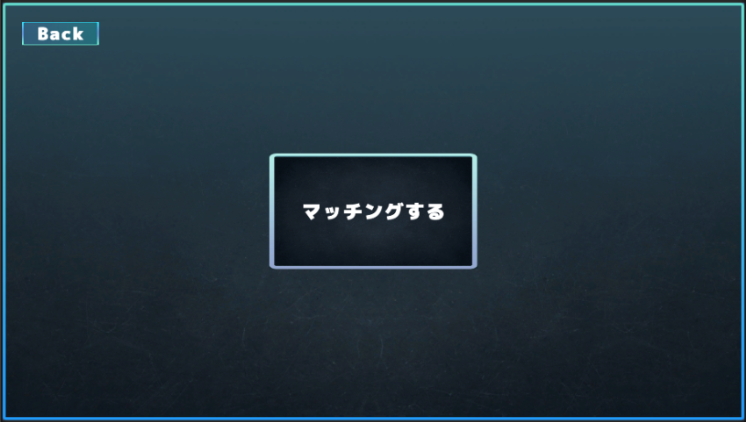
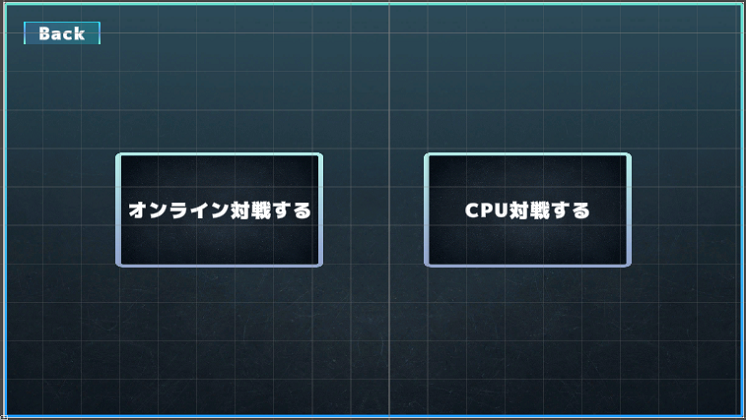
加筆修正

Changed region(s): [[0.0, 0.0, 1.0, 1.0], [0.1542, 0.3405, 0.8633, 0.65], [0.4933, 0.0619, 0.5241, 0.0929]]

diff --git a/HAND_TACTICS.md b/HAND_TACTICS.md
@@ -16,6 +16,7 @@
     * 2.3.2 バトル時の属性相性
   * 2.4. デッキ構築  
   * 2.5. オンライン機能  
+  * 2.6. CPU対戦
 *   
   **3\. 画面仕様詳細・オブジェクト構造**  
   * 3.1. 画面遷移図  
@@ -25,7 +26,7 @@
     * 3.2.3 デッキ一覧(Scene: DeckList)
     * 3.2.4 デッキ構築 (Scene: Deck)
     * 3.2.5 対戦デッキ選択 (Scene: DeckSelect)
-    * 3.2.6 マッチング待機 (Scene: Matching)
+    * 3.2.6 マッチ選択 (Scene: Matching)
     * 3.2.7 バトル (Scene: Battle)
 *   
   **4\. アセット・データリスト**  
@@ -133,26 +134,25 @@
   * デッキ一覧 **(DeckList)**
   * デッキ構築 **(Deck)**
   * 対戦デッキ選択 **(DeckSelect)**
-  * マッチング待機 **(Matching)**
+  * マッチ選択 **(Matching)**
   * バトル **(Battle)**
 
 ### **3.1. 画面遷移図**
 ```mermaid
 graph TD  
-    Start[タイトル] --> Home[ホーム];  
+    Start([タイトル]) -->|TAP SCREEN| Home[ホーム];  
       
-    Home -->|DeckButton| DeckList[デッキ一覧];  
-    DeckList -->|DeckListButton| Deck[デッキ構築];  
+    Home -->|デッキ| DeckList[デッキ一覧];  
+    DeckList -->|デッキ編集| Deck[デッキ構築];  
     Deck -->|Save  Back| DeckList;  
     DeckList -->|Back| Home;  
       
-    Home -->|BattleButton| DeckSelect[対戦対戦デッキ選択];  
-    DeckSelect -->|Start| Matching[マッチング待機];  
-    Matching -->|Matched| Battle[バトル];  
-      
-    Battle --> GameEnd[リザルト];  
-    GameEnd -->|Retry| Battle;  
-    GameEnd -->|Home| Home;
+    Home -->|バトル| DeckSelect[対戦対戦デッキ選択];  
+    DeckSelect --> Matching[マッチ選択];  
+    Matching -->|オンライン対戦| Battle{{バトル}};
+    Matching -->|CPU対戦| Battle{{バトル}};  
+    Battle --retry--> Battle  
+    Battle --> |Home| Home;
 ```
 ### **3.2. 各画面の詳細レイアウト**
 
@@ -171,8 +171,8 @@ graph TD
 
 * **背景:** ダークブルーの背景 (bg_menu) に、カードが上から降り注ぐ演出 (MenuCardSpawner)。  
 * **UI構成:** 画面下部に大きなボタンを配置。  
-  * [バトル] ボタン : クリックでDeckSelectへシーン遷移。
-  * [デッキ編集] ボタン : クリックでDeckListへシーン遷移。
+  * **[バトル] ボタン** : クリックでDeckSelectへシーン遷移。
+  * **[デッキ編集] ボタン** : クリックでDeckListへシーン遷移。
 * **詳細なオブジェクト構造・パラメータ:**  [SceneStructure_Home_Detailed.txt](Structure_text/SceneStructure_Home_Detailed.txt) を参照。
   
 ![alt text](DCG_game_images/home.png)
@@ -181,10 +181,10 @@ graph TD
 #### **3.2.3. デッキ一覧(Scene: DeckList)**
 
 * **レイアウト:** 中央に縦並びのボタンリスト。  
-  * [Defaultを編集]  ボタン : Defaultの情報をもってDeckへシーン遷移。
-  * [Deck1を編集]  ボタン : Deck1の情報をもってDeckへシーン遷移。
-  * [Deck2を編集]  ボタン : Deck2の情報をもってDeckへシーン遷移。
-* **ヘッダー:** 左上に「Back」ボタン : Homeへシーン遷移    
+  * **[Defaultを編集] ボタン** : Defaultの情報をもってDeckへシーン遷移。
+  * **[Deck1を編集]  ボタン** : Deck1の情報をもってDeckへシーン遷移。
+  * **[Deck2を編集]  ボタン** : Deck2の情報をもってDeckへシーン遷移。
+* **ヘッダー:** 左上に **[Back]ボタン** : Homeへシーン遷移    
 * **詳細なオブジェクト構造・パラメータ:**  [SceneStructure_DeckList_Detailed.txt](Structure_text/SceneStructure_DeckList_Detailed.txt), 
   
 ![alt text](DCG_game_images/DeckList.png)
@@ -192,11 +192,11 @@ graph TD
 #### **3.2.4. デッキ構築 (Scene: Deck)**
 
 * **レイアウト:**  
-  * **上段 (Deck):** 編集中のデッキ内容。2列×8枚＝16枚が表示される（左右の矢印でページ切り替え）。  
-  * **下段 (Stock):** 所持カード一覧。1列×6枚が表示される（左右矢印でスクロール）。  
+  * **上段 (Deck):** 編集中のデッキ内容。2列×8枚＝16枚が表示される（**[左右の矢印] ボタン**でページ切り替え）。  
+  * **下段 (Stock):** 所持カード一覧。1列×6枚が表示される（**[左右矢印]ボタン**でスクロール）。  
   * **ヘッダー:** 
-    * 「Reset」ボタン : デッキをクリア。
-    * 「Save/Back」ボタン :　保存してDeckListにシーン遷移。  
+    * **[Reset] ボタン** : デッキをクリア。
+    * **[Save/Back] ボタン** :　保存してDeckListにシーン遷移。  
 * **操作:** 下段から上段へ（またはその逆へ）カードをドラッグ＆ドロップして入れ替え。  
 * **詳細なオブジェクト構造・パラメータ:**  [SceneStructure_Deck_Detailed.txt](Structure_text/SceneStructure_Deck_Detailed.txt) を参照。
 
@@ -206,21 +206,22 @@ graph TD
 #### **3.2.5. 対戦デッキ選択 (Scene: DeckSelect)**
 
 * **レイアウト:** 中央に縦並びのボタンリスト。  
-  * [Defaultでバトル]  ボタン : Defaultの情報をもってBattleへシーン遷移。
-  * [Deck1でバトル]  ボタン : Deck1の情報をもってBattleへシーン遷移。
-  * [Deck2でバトル]  ボタン : Deck2の情報をもってBattleへシーン遷移。
-* **ヘッダー:** 左上に「Back」ボタン : Homeへシーン遷移。  
+  * **[Defaultでバトル] ボタン** : Defaultの情報をもってBattleへシーン遷移。
+  * **[Deck1でバトル] ボタン** : Deck1の情報をもってBattleへシーン遷移。
+  * **[Deck2でバトル] ボタン** : Deck2の情報をもってBattleへシーン遷移。
+* **ヘッダー:** 左上に **[Back]** ボタン : Homeへシーン遷移。  
 * **エラー表示:** デッキ枚数が32枚でない場合、ボタン上に警告メッセージを表示。  
 * **詳細なオブジェクト構造・パラメータ:** [SceneStructure_DeckSelect_Detailed.txt](Structure_text/SceneStructure_DeckSelect_Detailed.txt) を参照。
 
 ![alt text](DCG_game_images/DeckSelect.png)
 ![alt text](DCG_game_images/DeckSelect2.png)
 
-#### **3.2.6. マッチング待機 (Scene: Matching)**
+#### **3.2.6. マッチ選択 (Scene: Matching)**
 
-* **レイアウト:** 中央に「マッチングする（またはマッチング中）」のウィンドウ表示。  
-  * [マッチングする] ボタン : サーバーに接続し、マッチング開始。
-* **ヘッダー:** 左上に「Back」ボタン : Homeへシーン遷移。
+* **レイアウト:** 
+  *  **[オンライン対戦する] ボタン** : サーバーに接続し、マッチング開始、マッチング中の表記に変更。マッチングしたら、Battleシーンへ遷移。 
+  * **[CPU対戦する] ボタン** : サーバーに接続せず、そのままBattleシーンへ遷移。
+* **ヘッダー:** 左上に **[Back]ボタン** : Homeへシーン遷移。
 * **詳細なオブジェクト構造・パラメータ:** [SceneStructure_Matching_Detailed.txt](Structure_text/SceneStructure_Matching_Detailed.txt) を参照。
 
 ![alt text](DCG_game_images/Matching.png)
@@ -229,19 +230,24 @@ graph TD
 #### **3.2.7. バトル (Scene: Battle)**
 
 * **全体レイアウト:**  
-  * **フィールド:** 画面中央。カードを配置するプレイエリア。  
+  * **フィールド:** 画面中央。カードを配置するプレイエリア。
+    *  PlayerField : プレイヤーがカードを出すエリア。
+    *  EnemyField : 敵プレイヤーがカードを出すエリア。
   * **リーダー:**  
-    * **Player:** 左下 (blue_box枠)。HPはハートアイコンで表示。  
+    * **Player:** 左下 (blue_box枠)。HPはハートアイコン上にテキストで表示。  
     * **Enemy:** 右上 (red_box枠)。対角線上に配置される。  
   * **サイドバー (右側):**  
-    * **じゃんけんカウント:** 上部。手札内の✊✌✋の枚数を表示。  
-    * **マナ表示:** 中部。赤（敵）と青（自分）のダイヤ型アイコンで数値 (10/10など) を表示。  
-    * **TurnEndボタン:** 下部。青い円形ボタン。  
+    * **じゃんけんカウント:** 上部。相手手札内の✊✌✋の枚数を表示。  
+    * **TurnEndボタン:** 中央。青い円形ボタン。
+    * * **マナ表示:** TurnEndボタンを挟んで配置。赤（敵）と青（自分）のダイヤ型アイコンで数値 (10/10など) を表示。  
   * **サイドバー (左側):**  
-    * 設定（歯車）ボタン : Home遷移ボタンのUIが出る。
-    * サウンド（スピーカー）ボタン : 音量調節のUIが出る。 
+    * **設定（歯車）ボタン** : 押すと退出するかどうか聞く **GearPanel**が出る。
+      * **GearPanel** に **[Home]ボタン**と **[close]ボタン**を作る
+    * **サウンド（スピーカー）ボタン** : 音量調節のUIが出る。 
   * **手札:** 画面下部中央。  
-* **演出:** ターン開始時、画面中央にカットインパネルが表示される。  
+* **演出:** 
+  * ターン開始時、画面中央にターンの変更を知らせるカットインパネルが表示される。 
+  * 画面中央にJankenProcessで使用する **JankenPanel**を作る。
 * **詳細なオブジェクト構造・パラメータ:**  [SceneStructure_Battle_Detailed.txt](Structure_text/SceneStructure_Battle_Detailed.txt)を参照。
   
 * **背景UIのみ**
